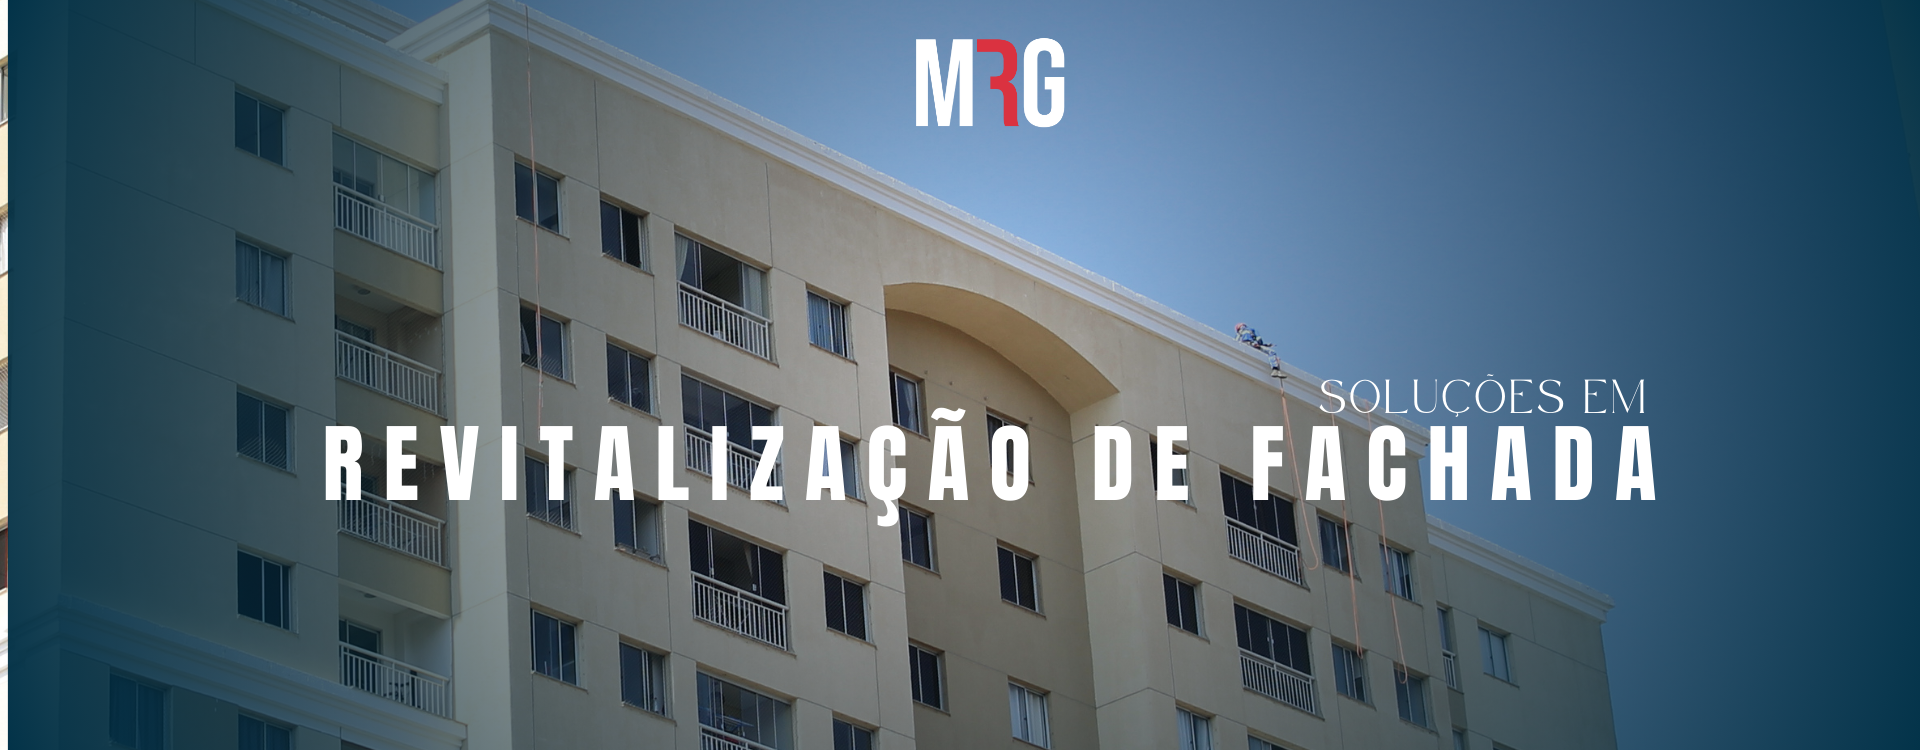
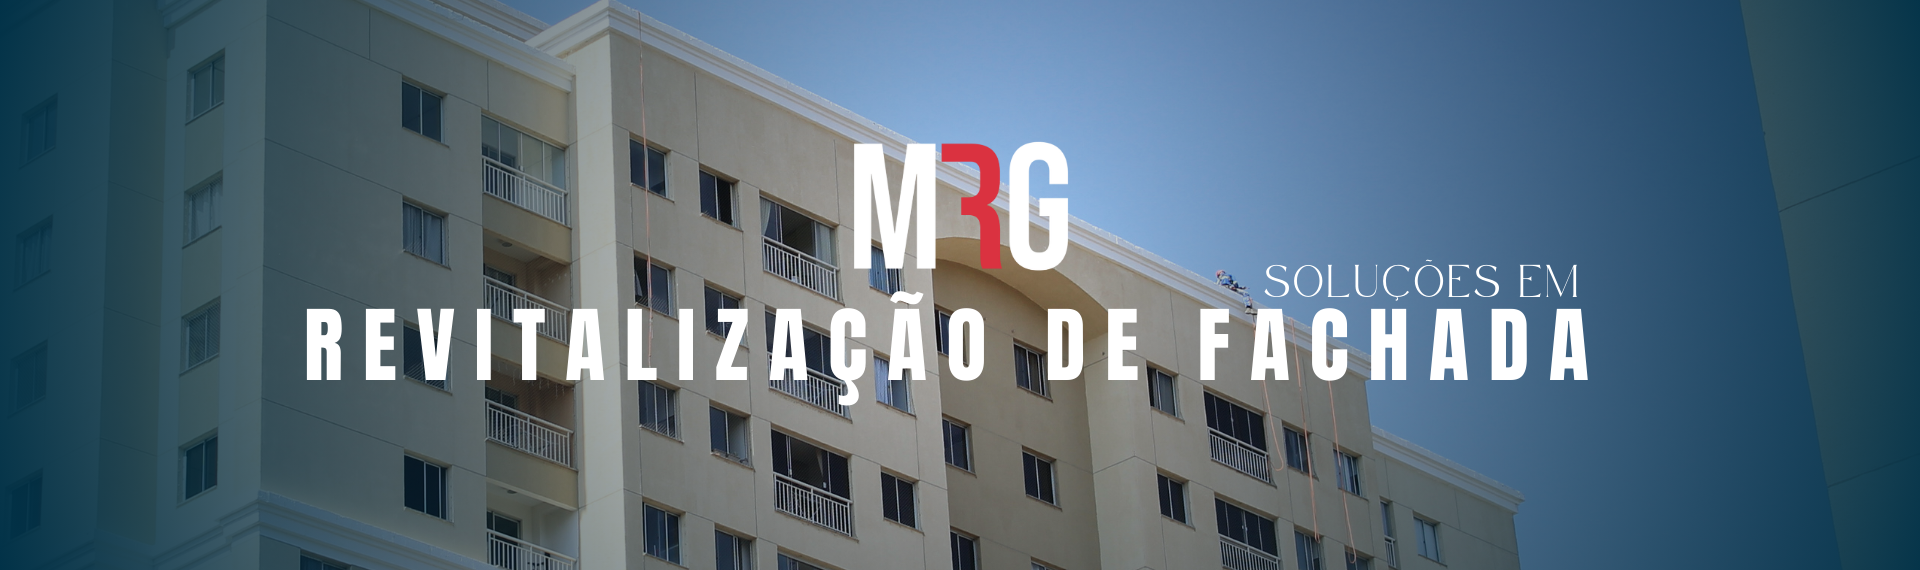
✨ Contatos

diff --git a/index.html b/index.html
@@ -494,28 +494,31 @@
               <!-- Fale agora com a gente -->
               <div class="flex flex-row items-center justify-center text-center space-x-4">
                 <!-- <i class="fas fa-comment-dots text-3xl text-gray-600"></i> -->
-                <span class="text-2xl font-semibold text-gray-800">Fale agora com a gente</span>
+                <span class="text-2xl font-semibold text-gray-800">Fale a nossa equipe</span>
               </div>
           
               <!-- Telefone -->
               <div class="flex flex-row items-center justify-center text-center space-x-4">
                 <i class="fas fa-phone-alt text-3xl text-gray-600"></i>
                 <span class="text-xl text-gray-800">Telefone</span>
-                <div class="text-lg text-gray-600">61 99999999</div>
+                <div class="text-lg text-gray-600">61 3573-7288</div>
               </div>
           
               <!-- Email -->
               <div class="flex flex-row items-center justify-center text-center space-x-4">
                 <i class="fas fa-envelope text-3xl text-gray-600"></i>
                 <span class="text-xl text-gray-800">Email</span>
-                <div class="text-lg text-gray-600">exemplo@email.com</div>
+                <div class="text-lg text-gray-600">contato@mrgengenharia.com.br</div>
               </div>
           
               <!-- WhatsApp -->
               <div class="flex flex-row items-center justify-center text-center space-x-4">
                 <i class="fab fa-whatsapp text-3xl text-gray-600"></i>
                 <span class="text-xl text-gray-800">WhatsApp</span>
-                <div class="text-lg text-gray-600">Clique aqui</div>
+                <div class="text-lg text-gray-600"> <a
+                    href="https://wa.me/5599999999999"
+                    target="_blank"
+                  >Clique aqui</a></div>
               </div>
           
               <!-- Instagram -->
@@ -595,7 +598,7 @@
             <h3 class="font-bold text-lg mb-4">Redes sociais</h3>
             <ul class="flex justify-center md:justify-start space-x-4">
               <li>
-                <a href="#" class="hover:text-blue-400">
+                <a href="https://www.instagram.com/grupo_mrg/" class="hover:text-blue-400">
                   <img
                     src="https://cdn-icons-png.flaticon.com/512/2111/2111463.png"
                     alt="Facebook"
@@ -603,7 +606,7 @@
                   />
                 </a>
               </li>
-              <li>
+              <!-- <li>
                 <a href="#" class="hover:text-blue-400">
                   <img
                     src="https://cdn-icons-png.flaticon.com/512/1384/1384060.png"
@@ -611,7 +614,7 @@
                     class="h-6"
                   />
                 </a>
-              </li>
+              </li> -->
             </ul>
           </div>
         </div>

diff --git a/js/app.js b/js/app.js
@@ -7,8 +7,14 @@ createApp({
       currentSlide: 0,
       images: [
         {
-          src: "https://guilhermeruj.github.io/mrg/assets/image2.png",
+          src: "https://guilhermeruj.github.io/mrg/assets/image7.png",
           alt: "Banner de arquitetura 1",
+          title: "",
+          caption: "",
+        },
+        {
+          src: "https://guilhermeruj.github.io/mrg/assets/image2.png",
+          alt: "Banner de arquitetura 2",
           title: "",
           caption: "",
         },
